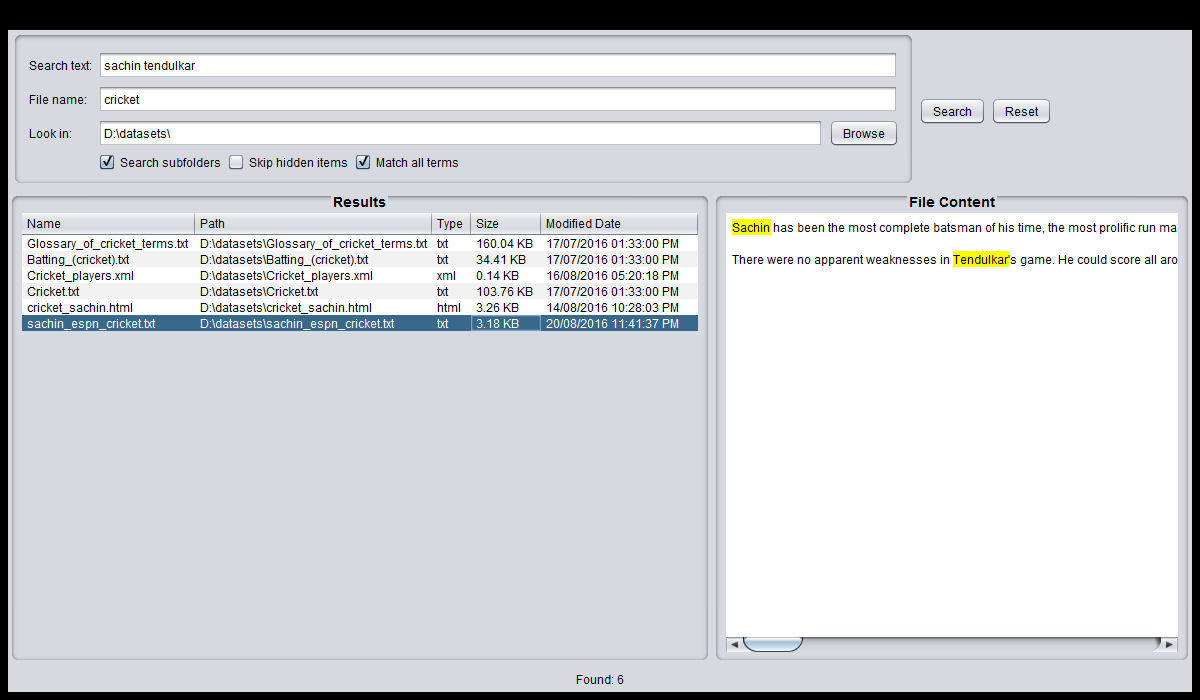
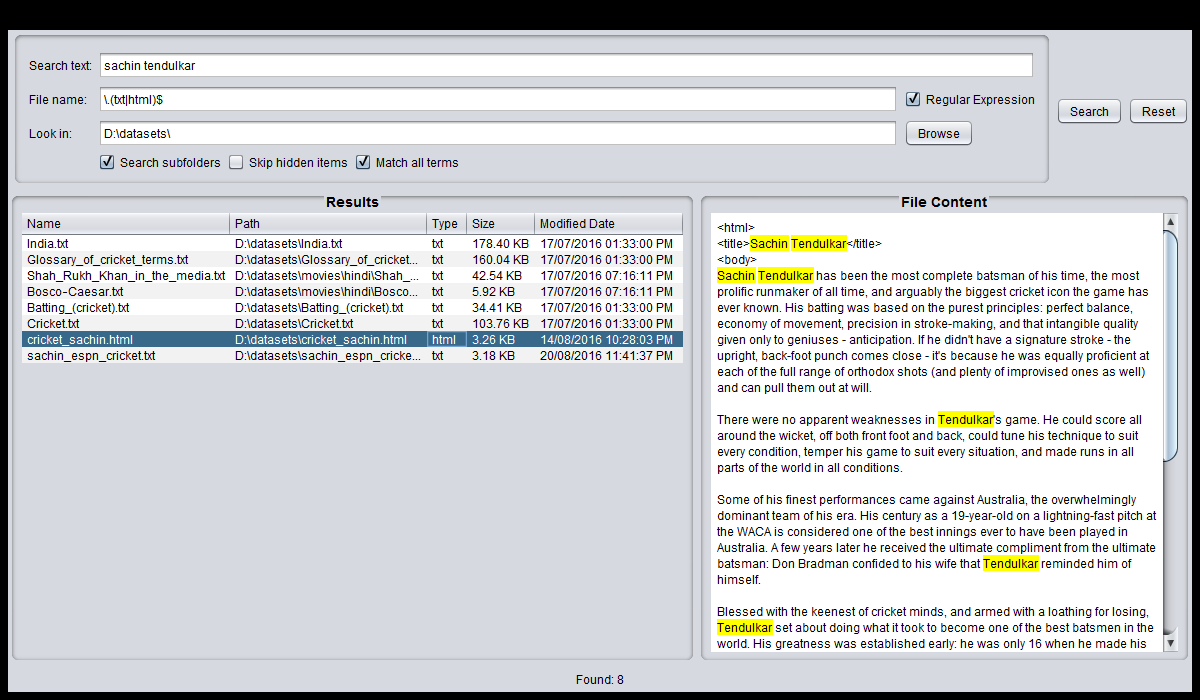
adding regex support for file name search

diff --git a/FileSearchEngineUI/src/filesearchengineui/view/FileSearchUI.java b/FileSearchEngineUI/src/filesearchengineui/view/FileSearchUI.java
@@ -28,8 +28,6 @@ import java.awt.FlowLayout;
 import java.awt.Font;
 import java.awt.event.ActionEvent;
 import java.awt.event.ActionListener;
-import java.awt.event.MouseEvent;
-import java.awt.event.MouseListener;
 
 import java.io.File;
 import java.io.FileNotFoundException;
@@ -42,6 +40,8 @@ import java.util.HashMap;
 import java.util.List;
 import java.util.Map;
 import java.util.Set;
+import java.util.regex.Pattern;
+import java.util.regex.PatternSyntaxException;
 
 import javax.swing.BorderFactory;
 import javax.swing.GroupLayout;
@@ -112,6 +112,7 @@ public class FileSearchUI {
         JCheckBox recursiveCheckBox = new JCheckBox("Search subfolders");
         JCheckBox hiddenFileCheckBox = new JCheckBox("Skip hidden items");
         JCheckBox matchAllTermsCheckBox = new JCheckBox("Match all terms");
+        JCheckBox regexForFileCheckBox = new JCheckBox("Regular Expression");
         JButton searchBtn = new JButton("Search");
         JButton browseBtn = new JButton("Browse");
         JButton resetBtn = new JButton("Reset");
@@ -184,7 +185,9 @@ public class FileSearchUI {
                     .addComponent(dirLabel))
                 .addGroup(layout.createParallelGroup(LEADING)
                     .addComponent(findText, 0, 800, Short.MAX_VALUE)
-                    .addComponent(fileNameText, 0, 800, Short.MAX_VALUE)
+                    .addGroup(layout.createSequentialGroup()
+                        .addComponent(fileNameText, 0, 800, Short.MAX_VALUE)
+                        .addComponent(regexForFileCheckBox))
                     .addGroup(layout.createSequentialGroup()
                         .addComponent(dirPathText, 0, 300, 725)
                         .addComponent(browseBtn))
@@ -197,7 +200,7 @@ public class FileSearchUI {
             //Ensure that text fields stay the same size
             
             //layout.linkSize(SwingConstants.HORIZONTAL, findText, dirPathText);
-            layout.linkSize(SwingConstants.HORIZONTAL, findText, fileNameText);
+            layout.linkSize(SwingConstants.HORIZONTAL, dirPathText, fileNameText);
             
             
             //Ensure that the buttons stay the same size
@@ -210,7 +213,9 @@ public class FileSearchUI {
                     .addComponent(findText))
                 .addGroup(layout.createParallelGroup(BASELINE)
                     .addComponent(fileNameLabel)
-                    .addComponent(fileNameText))
+                    .addGroup(layout.createParallelGroup(BASELINE)
+                        .addComponent(fileNameText)
+                        .addComponent(regexForFileCheckBox)))
                 .addGroup(layout.createParallelGroup(BASELINE)
                     .addComponent(dirLabel)
                     .addGroup(layout.createParallelGroup(BASELINE)
@@ -331,6 +336,10 @@ public class FileSearchUI {
          */
         private void constructContentPane(){
             fileContent.setEditable(false);
+            //set wrap style as word
+            fileContent.setWrapStyleWord(true);
+            //set line wrapping
+            fileContent.setLineWrap(true);
             JScrollPane contentPane = new JScrollPane(fileContent);
             //TitledBorder for ContentPane
             TitledBorder contentPaneTitle =
@@ -346,6 +355,7 @@ public class FileSearchUI {
             JPanel statusPane = new JPanel();
             
             //Uncomment this code block if sanp has to be taken
+            /*
             statusLabel.addMouseListener(new MouseListener(){
 
                 @Override
@@ -373,7 +383,7 @@ public class FileSearchUI {
                     // TODO Implement this method
                 }
             });
-            
+            */
             statusPane.add(statusLabel);
             add(statusPane, BorderLayout.SOUTH);
         }
@@ -419,9 +429,9 @@ public class FileSearchUI {
                
                 String searchText = findText.getText().trim();
                 String dirPath = dirPathText.getText();
-                String fileNamePattern = fileNameText.getText().trim();
+                String fileNamePatternText = fileNameText.getText().trim();
                 
-                if (searchText.isEmpty() && fileNamePattern.isEmpty()) {
+                if (searchText.isEmpty() && fileNamePatternText.isEmpty()) {
                     displayError("Either one of Search Text and File Name is mandatory");
                     return;
                 }
@@ -430,21 +440,39 @@ public class FileSearchUI {
                     return;
                 }
 
-
+                //Should subfolders be checked
+                boolean recursiveSearch = recursiveCheckBox.isSelected();
+                //should hidden items be skipped
+                boolean skipHiddenItems = hiddenFileCheckBox.isSelected();
+                //Should all terms be matched
+                boolean matchAllTerms = matchAllTermsCheckBox.isSelected();
                 
+                //Is file name provided as a regular expression
+                boolean isFileNameRegEx = regexForFileCheckBox.isSelected();
+                
+                Pattern fileNamePattern = null;
+                try{
+                    if(!isFileNameRegEx){
+                        //Quote the pattern if it is not a regular expression
+                        fileNamePattern = Pattern.compile(Pattern.quote(fileNamePatternText), Pattern.CASE_INSENSITIVE);                
+                    }
+                    else{
+                        fileNamePattern = Pattern.compile(fileNamePatternText, Pattern.CASE_INSENSITIVE);                
+                    }
+                }
+                catch(PatternSyntaxException pse){
+                    displayError(pse.getLocalizedMessage());
+                    return;
+                }
                 //Remove earlier search results
                 clearTable((DefaultTableModel)(resultTable.getModel()));
                 //clear the file content area
                 fileContent.setText("");
-                
+                //Set the status as in progress
+                statusLabel.setText("Search is in progress...");
                 //Get the corpus info pertaining to the current directory alone
                 try {
-                    //Should subfolders be checked
-                    boolean recursiveSearch = recursiveCheckBox.isSelected();
-                    //should hidden items be skipped
-                    boolean skipHiddenItems = hiddenFileCheckBox.isSelected();
-                    //Should all terms be matched
-                    boolean matchAllTerms = matchAllTermsCheckBox.isSelected();
+                    
                     
                     //Build the search parameter map
                     Map<String, Object> searchParams = new HashMap<String, Object>();

diff --git a/FileSearchEngine/src/filesearchengine/process/IndexBuilder.java b/FileSearchEngine/src/filesearchengine/process/IndexBuilder.java
@@ -282,7 +282,7 @@ public class IndexBuilder {
         private Set<String> selectedExtns = CustomFileFilter.allSuppExtns;
         
         //File Name pattern if any
-        private String fileNamePattern = null;
+        private Pattern fileNamePattern = null;
         
         //Stores the list of files indexed in this re-build index process
         private Set<Integer> curIndexedFiles = new HashSet<Integer>();
@@ -297,7 +297,7 @@ public class IndexBuilder {
             this.skipHidden = (Boolean)searchParams.get(SKIP_HIDDEN_ITEMS);
             this.selectedExtns = (Set<String>)searchParams.get(EXTNS_SEARCH);
             //If the fileName parameter is not provided, this will be NULL
-            this.fileNamePattern = (String)searchParams.get(FILENAME_PATTERN);
+            this.fileNamePattern = (Pattern)searchParams.get(FILENAME_PATTERN);
         }
         
         /**
@@ -347,8 +347,11 @@ public class IndexBuilder {
                         //check if file name also has to be matched
                         if (fileNamePattern != null) {
                             //Ignore if the current file doesn't match the pattern
-                            if (!Pattern.compile(Pattern.quote(fileNamePattern),
+                            /*if (!Pattern.compile(Pattern.quote(fileNamePattern),
                                                  Pattern.CASE_INSENSITIVE).matcher(fileName).find()) {
+                                continue;
+                            }*/
+                            if (!fileNamePattern.matcher(fileName).find()) {
                                 continue;
                             }
                         }

diff --git a/FileSearchEngine/src/filesearchengine/process/FileNameSearch.java b/FileSearchEngine/src/filesearchengine/process/FileNameSearch.java
@@ -19,7 +19,7 @@ public class FileNameSearch {
     private boolean skipHidden = false;
     private boolean recurse = true;
 
-    private String fileNamePattern = null;
+    private Pattern fileNamePattern = null;
 
     public FileNameSearch() {
         super();
@@ -41,8 +41,7 @@ public class FileNameSearch {
                     String fileName = childFile.getName();
 
                     //Ignore if the current file name doesn't match the pattern
-                    if (!Pattern.compile(Pattern.quote(fileNamePattern),
-                                         Pattern.CASE_INSENSITIVE).matcher(fileName).find()) {
+                    if (!fileNamePattern.matcher(fileName).find()) {
                         continue;
                     }
 
@@ -72,7 +71,7 @@ public class FileNameSearch {
         this.recurse = (Boolean) searchParams.get(RECURSIVE_SEARCH);
         this.skipHidden = (Boolean) searchParams.get(SKIP_HIDDEN_ITEMS);
         //If the fileName parameter is not provided, this will be NULL
-        this.fileNamePattern = (String) searchParams.get(FILENAME_PATTERN);
+        this.fileNamePattern = (Pattern) searchParams.get(FILENAME_PATTERN);
 
         //Call read Files which actually iterates through folder
         File rootDir = new File(rootDirFullPath);

diff --git a/FileSearchEngineUI/src/filesearchengineui/model/DocWrapperContentSearch.java b/FileSearchEngineUI/src/filesearchengineui/model/DocWrapperContentSearch.java
@@ -70,7 +70,7 @@ public class DocWrapperContentSearch extends DocumentWrapper {
 
             int offSet = 0;
 
-            while (((line = reader.readLine()) != null) && (termIndicesMap.keySet().size() != queryTerms.size())) {
+            while (((line = reader.readLine()) != null) && (termIndicesMap.keySet().size() < queryTerms.size() || (sb.length() < 2048))) {
 
                 Map<String, List<Integer>> curTermIndicesMap =
                     StringSearchUtils.searchPatterns(line.toUpperCase(), queryTerms);
